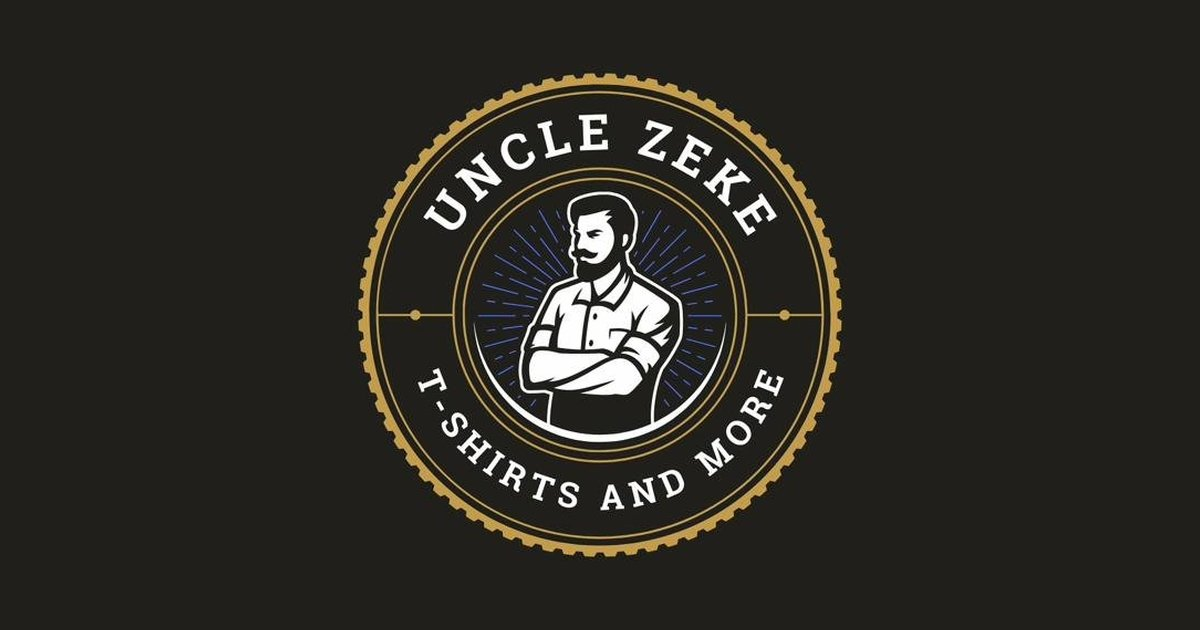
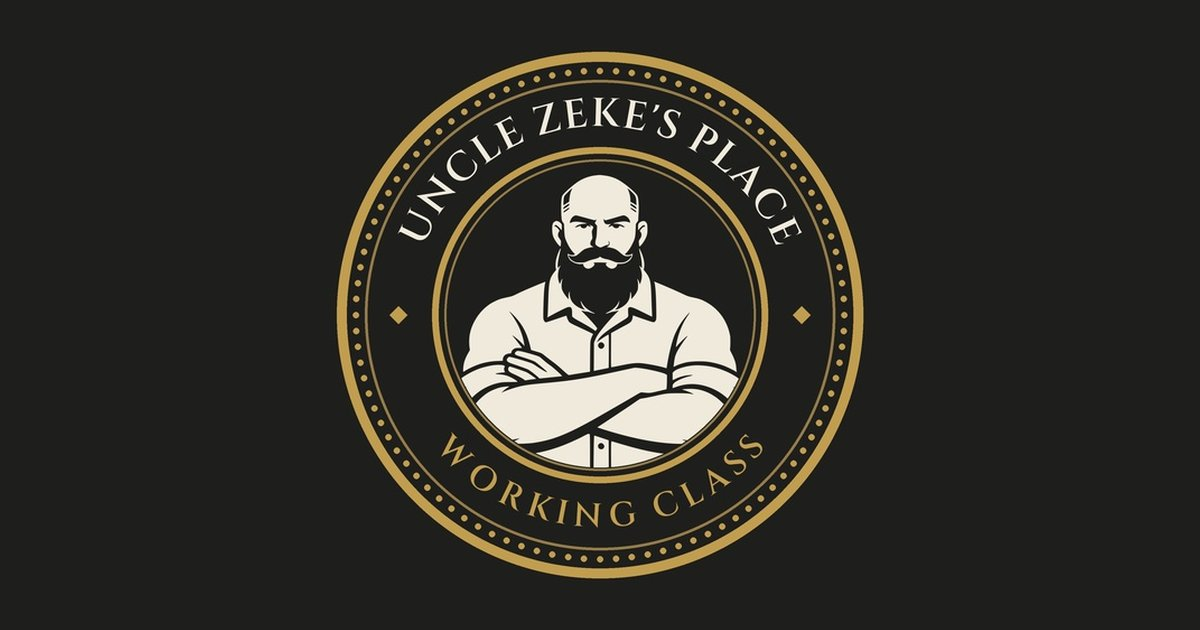
Use newest covers and brand mark, feature Workers Unite
Workers Unite V15 and Cozy Seasons v4 covers, new Working Class
medallion for logo, favicon and share image. Workers Unite joins the
Floor Man's Guide as Contract Season Reading. Adds Walls and Bars and
Bill Haywood's Book to the top of Owasco Valley Classics.

Claude-Session: https://claude.ai/code/session_01JEDT83JivgS4E9M3ZH9URb

Changed region(s): [[0.2775, 0.0603, 0.74, 0.9349]]

diff --git a/books.html b/books.html
@@ -28,10 +28,10 @@
 </header>
 <main><div class="wrap">
   <section class="section"><div class="section-head"><div class="eyebrow">Puzzles and History</div><h2>Uncle Zeke</h2><p>Plain-language union know-how and word search books built from real labor and local history.</p></div>
-    <div class="grid"><a class="item" href="https://www.amazon.com/stores/Uncle-Zeke/author/B0GSNHSGZC" target="_blank" rel="noopener" data-link="store"><img src="img/web/uz_floorman.jpg" alt="The Floor Man&#x27;s Guide to Contract Season cover" loading="lazy" width="500"><div class="item-body"><div class="item-title">The Floor Man&#x27;s Guide to Contract Season</div><div class="item-meta">Uncle Zeke</div></div></a><a class="item" href="https://www.amazon.com/stores/Uncle-Zeke/author/B0GSNHSGZC" target="_blank" rel="noopener" data-link="store"><img src="img/web/workers_unite.jpg" alt="Workers Unite! Word Search cover" loading="lazy" width="500"><div class="item-body"><div class="item-title">Workers Unite! Word Search</div><div class="item-meta">Uncle Zeke</div></div></a><a class="item" href="https://www.amazon.com/stores/Uncle-Zeke/author/B0GSNHSGZC" target="_blank" rel="noopener" data-link="store"><img src="img/web/trailblazers.jpg" alt="Trailblazers! Word Search cover" loading="lazy" width="500"><div class="item-body"><div class="item-title">Trailblazers! Word Search</div><div class="item-meta">Uncle Zeke</div></div></a></div>
+    <div class="grid"><a class="item" href="https://www.amazon.com/stores/Uncle-Zeke/author/B0GSNHSGZC" target="_blank" rel="noopener" data-link="store"><img src="img/web/uz_floorman.jpg" alt="The Floor Man&#x27;s Guide to Contract Season cover" loading="lazy" width="500"><div class="item-body"><div class="item-title">The Floor Man&#x27;s Guide to Contract Season</div><div class="item-meta">Uncle Zeke</div></div></a><a class="item" href="https://www.amazon.com/stores/Uncle-Zeke/author/B0GSNHSGZC" target="_blank" rel="noopener" data-link="store"><img src="img/web/workers_unite.jpg" alt="Workers Unite! Word Search Puzzles cover" loading="lazy" width="500"><div class="item-body"><div class="item-title">Workers Unite! Word Search Puzzles</div><div class="item-meta">Uncle Zeke</div></div></a><a class="item" href="https://www.amazon.com/stores/Uncle-Zeke/author/B0GSNHSGZC" target="_blank" rel="noopener" data-link="store"><img src="img/web/trailblazers.jpg" alt="Trailblazers! Word Search cover" loading="lazy" width="500"><div class="item-body"><div class="item-title">Trailblazers! Word Search</div><div class="item-meta">Uncle Zeke</div></div></a></div>
     <div class="cta"><a class="btn" href="https://www.amazon.com/stores/Uncle-Zeke/author/B0GSNHSGZC" target="_blank" rel="noopener">Uncle Zeke on Amazon</a></div></section>
   <section class="section"><div class="section-head"><div class="eyebrow">Annotated Classics</div><h2>Owasco Valley Classics</h2><p>Public domain works worth keeping, newly typeset with an introduction and a note on the text. Labor history, Finger Lakes authors, and the classics.</p></div>
-    <div class="grid"><a class="item" href="https://www.amazon.com/s?k=Owasco+Valley+Classics" target="_blank" rel="noopener" data-link="store"><img src="img/web/ovc_debs.jpg" alt="Debs: His Life, Writings and Speeches cover" loading="lazy" width="500"><div class="item-body"><div class="item-title">Debs: His Life, Writings and Speeches</div><div class="item-meta">Eugene V. Debs</div></div></a><a class="item" href="https://www.amazon.com/s?k=Owasco+Valley+Classics" target="_blank" rel="noopener" data-link="store"><img src="img/web/ovc_sabotage.jpg" alt="Simple Sabotage Field Manual cover" loading="lazy" width="500"><div class="item-body"><div class="item-title">Simple Sabotage Field Manual</div><div class="item-meta">Office of Strategic Services</div></div></a><a class="item" href="https://www.amazon.com/s?k=Owasco+Valley+Classics" target="_blank" rel="noopener" data-link="store"><img src="img/web/ovc_tess.jpg" alt="Tess of the Storm Country cover" loading="lazy" width="500"><div class="item-body"><div class="item-title">Tess of the Storm Country</div><div class="item-meta">Grace Miller White</div></div></a><a class="item" href="https://www.amazon.com/s?k=Owasco+Valley+Classics" target="_blank" rel="noopener" data-link="store"><img src="img/web/ovc_valley.jpg" alt="From the Valley of the Missing cover" loading="lazy" width="500"><div class="item-body"><div class="item-title">From the Valley of the Missing</div><div class="item-meta">Grace Miller White</div></div></a><a class="item" href="https://www.amazon.com/s?k=Owasco+Valley+Classics" target="_blank" rel="noopener" data-link="store"><img src="img/web/ovc_secret.jpg" alt="The Secret of the Storm Country cover" loading="lazy" width="500"><div class="item-body"><div class="item-title">The Secret of the Storm Country</div><div class="item-meta">Grace Miller White</div></div></a><a class="item" href="https://www.amazon.com/s?k=Owasco+Valley+Classics" target="_blank" rel="noopener" data-link="store"><img src="img/web/ovc_rose.jpg" alt="Rose O&#x27; Paradise cover" loading="lazy" width="500"><div class="item-body"><div class="item-title">Rose O&#x27; Paradise</div><div class="item-meta">Grace Miller White</div></div></a><a class="item" href="https://www.amazon.com/s?k=Owasco+Valley+Classics" target="_blank" rel="noopener" data-link="store"><img src="img/web/ovc_yellow.jpg" alt="The Yellow Wallpaper cover" loading="lazy" width="500"><div class="item-body"><div class="item-title">The Yellow Wallpaper</div><div class="item-meta">Charlotte Perkins Gilman</div></div></a><a class="item" href="https://www.amazon.com/s?k=Owasco+Valley+Classics" target="_blank" rel="noopener" data-link="store"><img src="img/web/ovc_dorian.jpg" alt="The Picture of Dorian Gray cover" loading="lazy" width="500"><div class="item-body"><div class="item-title">The Picture of Dorian Gray</div><div class="item-meta">Oscar Wilde</div></div></a><a class="item" href="https://www.amazon.com/s?k=Owasco+Valley+Classics" target="_blank" rel="noopener" data-link="store"><img src="img/web/ovc_enchiridion.jpg" alt="The Enchiridion cover" loading="lazy" width="500"><div class="item-body"><div class="item-title">The Enchiridion</div><div class="item-meta">Epictetus</div></div></a><a class="item" href="https://www.amazon.com/s?k=Owasco+Valley+Classics" target="_blank" rel="noopener" data-link="store"><img src="img/web/ovc_shortness.jpg" alt="On the Shortness of Life cover" loading="lazy" width="500"><div class="item-body"><div class="item-title">On the Shortness of Life</div><div class="item-meta">Seneca</div></div></a></div>
+    <div class="grid"><a class="item" href="https://www.amazon.com/s?k=Owasco+Valley+Classics" target="_blank" rel="noopener" data-link="store"><img src="img/web/ovc_walls.jpg" alt="Walls and Bars cover" loading="lazy" width="500"><div class="item-body"><div class="item-title">Walls and Bars</div><div class="item-meta">Eugene V. Debs</div></div></a><a class="item" href="https://www.amazon.com/s?k=Owasco+Valley+Classics" target="_blank" rel="noopener" data-link="store"><img src="img/web/ovc_haywood.jpg" alt="Bill Haywood&#x27;s Book cover" loading="lazy" width="500"><div class="item-body"><div class="item-title">Bill Haywood&#x27;s Book</div><div class="item-meta">William D. Haywood</div></div></a><a class="item" href="https://www.amazon.com/s?k=Owasco+Valley+Classics" target="_blank" rel="noopener" data-link="store"><img src="img/web/ovc_debs.jpg" alt="Debs: His Life, Writings and Speeches cover" loading="lazy" width="500"><div class="item-body"><div class="item-title">Debs: His Life, Writings and Speeches</div><div class="item-meta">Eugene V. Debs</div></div></a><a class="item" href="https://www.amazon.com/s?k=Owasco+Valley+Classics" target="_blank" rel="noopener" data-link="store"><img src="img/web/ovc_sabotage.jpg" alt="Simple Sabotage Field Manual cover" loading="lazy" width="500"><div class="item-body"><div class="item-title">Simple Sabotage Field Manual</div><div class="item-meta">Office of Strategic Services</div></div></a><a class="item" href="https://www.amazon.com/s?k=Owasco+Valley+Classics" target="_blank" rel="noopener" data-link="store"><img src="img/web/ovc_tess.jpg" alt="Tess of the Storm Country cover" loading="lazy" width="500"><div class="item-body"><div class="item-title">Tess of the Storm Country</div><div class="item-meta">Grace Miller White</div></div></a><a class="item" href="https://www.amazon.com/s?k=Owasco+Valley+Classics" target="_blank" rel="noopener" data-link="store"><img src="img/web/ovc_valley.jpg" alt="From the Valley of the Missing cover" loading="lazy" width="500"><div class="item-body"><div class="item-title">From the Valley of the Missing</div><div class="item-meta">Grace Miller White</div></div></a><a class="item" href="https://www.amazon.com/s?k=Owasco+Valley+Classics" target="_blank" rel="noopener" data-link="store"><img src="img/web/ovc_secret.jpg" alt="The Secret of the Storm Country cover" loading="lazy" width="500"><div class="item-body"><div class="item-title">The Secret of the Storm Country</div><div class="item-meta">Grace Miller White</div></div></a><a class="item" href="https://www.amazon.com/s?k=Owasco+Valley+Classics" target="_blank" rel="noopener" data-link="store"><img src="img/web/ovc_rose.jpg" alt="Rose O&#x27; Paradise cover" loading="lazy" width="500"><div class="item-body"><div class="item-title">Rose O&#x27; Paradise</div><div class="item-meta">Grace Miller White</div></div></a><a class="item" href="https://www.amazon.com/s?k=Owasco+Valley+Classics" target="_blank" rel="noopener" data-link="store"><img src="img/web/ovc_yellow.jpg" alt="The Yellow Wallpaper cover" loading="lazy" width="500"><div class="item-body"><div class="item-title">The Yellow Wallpaper</div><div class="item-meta">Charlotte Perkins Gilman</div></div></a><a class="item" href="https://www.amazon.com/s?k=Owasco+Valley+Classics" target="_blank" rel="noopener" data-link="store"><img src="img/web/ovc_dorian.jpg" alt="The Picture of Dorian Gray cover" loading="lazy" width="500"><div class="item-body"><div class="item-title">The Picture of Dorian Gray</div><div class="item-meta">Oscar Wilde</div></div></a><a class="item" href="https://www.amazon.com/s?k=Owasco+Valley+Classics" target="_blank" rel="noopener" data-link="store"><img src="img/web/ovc_enchiridion.jpg" alt="The Enchiridion cover" loading="lazy" width="500"><div class="item-body"><div class="item-title">The Enchiridion</div><div class="item-meta">Epictetus</div></div></a><a class="item" href="https://www.amazon.com/s?k=Owasco+Valley+Classics" target="_blank" rel="noopener" data-link="store"><img src="img/web/ovc_shortness.jpg" alt="On the Shortness of Life cover" loading="lazy" width="500"><div class="item-body"><div class="item-title">On the Shortness of Life</div><div class="item-meta">Seneca</div></div></a></div>
     <div class="cta"><a class="btn" href="https://www.amazon.com/s?k=Owasco+Valley+Classics" target="_blank" rel="noopener">Owasco Valley Classics on Amazon</a></div></section>
   <section class="section"><div class="section-head"><div class="eyebrow">Large Print Puzzles</div><h2>Hazel Fireside</h2><p>Relaxing large print word searches for adults and seniors.</p></div>
     <div class="grid"><a class="item" href="https://www.amazon.com/s?k=Hazel+Fireside" target="_blank" rel="noopener" data-link="store"><img src="img/web/cozy_seasons.jpg" alt="Cozy Seasons Large Print Word Search cover" loading="lazy" width="500"><div class="item-body"><div class="item-title">Cozy Seasons Large Print Word Search</div><div class="item-meta">Hazel Fireside</div></div></a><a class="item" href="https://www.amazon.com/s?k=Hazel+Fireside" target="_blank" rel="noopener" data-link="store"><img src="img/web/paddy.jpg" alt="St. Patrick&#x27;s Day Word Search cover" loading="lazy" width="500"><div class="item-body"><div class="item-title">St. Patrick&#x27;s Day Word Search</div><div class="item-meta">Hazel Fireside</div></div></a></div>

diff --git a/shirts.html b/shirts.html
@@ -30,7 +30,7 @@
     </div>
     <div class="grid"><a class="item" href="https://www.teepublic.com/user/unclezeke" target="_blank" rel="noopener" data-link="store"><img src="img/web/red_red_until_signed.jpg" alt="Red Until It&#x27;s Signed shirt design" loading="lazy" width="700" height="700"><div class="item-body"><div class="item-title">Red Until It&#x27;s Signed</div><div class="item-meta">Back print</div></div></a><a class="item" href="https://www.teepublic.com/user/unclezeke" target="_blank" rel="noopener" data-link="store"><img src="img/web/red_no_contract_no_peace.jpg" alt="No Contract, No Peace shirt design" loading="lazy" width="700" height="700"><div class="item-body"><div class="item-title">No Contract, No Peace</div><div class="item-meta">Front and back print</div></div></a><a class="item" href="https://www.teepublic.com/user/unclezeke" target="_blank" rel="noopener" data-link="store"><img src="img/web/red_record_profits.jpg" alt="Record Profits. Empty Promises. shirt design" loading="lazy" width="700" height="700"><div class="item-body"><div class="item-title">Record Profits. Empty Promises.</div><div class="item-meta">Back print</div></div></a><a class="item" href="https://www.teepublic.com/user/unclezeke" target="_blank" rel="noopener" data-link="store"><img src="img/web/red_union_steward.jpg" alt="Union Steward, Ask Me Anything shirt design" loading="lazy" width="700" height="700"><div class="item-body"><div class="item-title">Union Steward, Ask Me Anything</div><div class="item-meta">Back print</div></div></a><a class="item" href="https://www.teepublic.com/user/unclezeke" target="_blank" rel="noopener" data-link="store"><img src="img/web/red_union_kid.jpg" alt="Union Kid shirt design" loading="lazy" width="700" height="700"><div class="item-body"><div class="item-title">Union Kid</div><div class="item-meta">Front and back, youth sizes too</div></div></a></div>
     <div class="cta"><a class="btn white" href="https://www.teepublic.com/user/unclezeke" target="_blank" rel="noopener">Go to the Store</a></div>
-    <a class="feature" href="https://www.amazon.com/stores/Uncle-Zeke/author/B0GSNHSGZC" target="_blank" rel="noopener"><img src="img/web/uz_floorman.jpg" alt="The Floor Man's Guide to Contract Season cover" loading="lazy" width="500" height="750"><div><div class="eyebrow">Contract Season Reading</div><div class="feature-title">The Floor Man's Guide to Contract Season</div><p>What it says, what it means, and what to do about it. Plain language, real situations, no law degree required.</p><span class="door-go">Get it on Amazon &rsaquo;</span></div></a>
+    <div class="reading"><div class="eyebrow reading-head">Contract Season Reading</div><div class="reading-row"><a class="feature" href="https://www.amazon.com/stores/Uncle-Zeke/author/B0GSNHSGZC" target="_blank" rel="noopener"><img src="img/web/uz_floorman.jpg" alt="The Floor Man&#x27;s Guide to Contract Season cover" loading="lazy" width="500" height="750"><div><div class="feature-title">The Floor Man&#x27;s Guide to Contract Season</div><p>What it says, what it means, and what to do about it. Plain language, real situations, no law degree required.</p><span class="door-go">Get it on Amazon &rsaquo;</span></div></a><a class="feature" href="https://www.amazon.com/stores/Uncle-Zeke/author/B0GSNHSGZC" target="_blank" rel="noopener"><img src="img/web/workers_unite.jpg" alt="Workers Unite! Word Search Puzzles cover" loading="lazy" width="500" height="750"><div><div class="feature-title">Workers Unite! Word Search Puzzles</div><p>120 puzzles celebrating American labor history. Working class puzzles with working class solutions.</p><span class="door-go">Get it on Amazon &rsaquo;</span></div></a></div></div>
   </div>
 </section>
 <main class="section"><div class="wrap">

diff --git a/index.html b/index.html
@@ -38,7 +38,7 @@
     </div>
     <div class="grid"><a class="item" href="https://www.teepublic.com/user/unclezeke" target="_blank" rel="noopener" data-link="store"><img src="img/web/red_red_until_signed.jpg" alt="Red Until It&#x27;s Signed shirt design" loading="lazy" width="700" height="700"><div class="item-body"><div class="item-title">Red Until It&#x27;s Signed</div><div class="item-meta">Back print</div></div></a><a class="item" href="https://www.teepublic.com/user/unclezeke" target="_blank" rel="noopener" data-link="store"><img src="img/web/red_no_contract_no_peace.jpg" alt="No Contract, No Peace shirt design" loading="lazy" width="700" height="700"><div class="item-body"><div class="item-title">No Contract, No Peace</div><div class="item-meta">Front and back print</div></div></a><a class="item" href="https://www.teepublic.com/user/unclezeke" target="_blank" rel="noopener" data-link="store"><img src="img/web/red_record_profits.jpg" alt="Record Profits. Empty Promises. shirt design" loading="lazy" width="700" height="700"><div class="item-body"><div class="item-title">Record Profits. Empty Promises.</div><div class="item-meta">Back print</div></div></a><a class="item" href="https://www.teepublic.com/user/unclezeke" target="_blank" rel="noopener" data-link="store"><img src="img/web/red_union_steward.jpg" alt="Union Steward, Ask Me Anything shirt design" loading="lazy" width="700" height="700"><div class="item-body"><div class="item-title">Union Steward, Ask Me Anything</div><div class="item-meta">Back print</div></div></a><a class="item" href="https://www.teepublic.com/user/unclezeke" target="_blank" rel="noopener" data-link="store"><img src="img/web/red_union_kid.jpg" alt="Union Kid shirt design" loading="lazy" width="700" height="700"><div class="item-body"><div class="item-title">Union Kid</div><div class="item-meta">Front and back, youth sizes too</div></div></a></div>
     <div class="cta"><a class="btn white" href="shirts.html">See All Red Shirts</a></div>
-    <a class="feature" href="books.html"><img src="img/web/uz_floorman.jpg" alt="The Floor Man's Guide to Contract Season cover" loading="lazy" width="500" height="750"><div><div class="eyebrow">Contract Season Reading</div><div class="feature-title">The Floor Man's Guide to Contract Season</div><p>What it says, what it means, and what to do about it. Plain language, real situations, no law degree required.</p><span class="door-go">Get the book &rsaquo;</span></div></a>
+    <div class="reading"><div class="eyebrow reading-head">Contract Season Reading</div><div class="reading-row"><a class="feature" href="books.html"><img src="img/web/uz_floorman.jpg" alt="The Floor Man&#x27;s Guide to Contract Season cover" loading="lazy" width="500" height="750"><div><div class="feature-title">The Floor Man&#x27;s Guide to Contract Season</div><p>What it says, what it means, and what to do about it. Plain language, real situations, no law degree required.</p><span class="door-go">Get the book &rsaquo;</span></div></a><a class="feature" href="books.html"><img src="img/web/workers_unite.jpg" alt="Workers Unite! Word Search Puzzles cover" loading="lazy" width="500" height="750"><div><div class="feature-title">Workers Unite! Word Search Puzzles</div><p>120 puzzles celebrating American labor history. Working class puzzles with working class solutions.</p><span class="door-go">Get the book &rsaquo;</span></div></a></div></div>
   </div>
 </section>
 

diff --git a/style.css b/style.css
@@ -123,3 +123,9 @@ footer{border-top:1px solid var(--rule);text-align:center;padding:2.4rem 16px;ma
 .feature p{font-size:0.95rem;opacity:0.9;line-height:1.5}
 .feature .door-go{color:#fff;display:inline-block}
 @media(max-width:600px){.feature{flex-direction:column;text-align:center}.feature img{width:140px}}
+.reading{margin-top:2.4rem}
+.reading-head{text-align:center;color:#ffd6dc;margin-bottom:1rem}
+.reading-row{display:grid;grid-template-columns:1fr 1fr;gap:1rem;max-width:960px;margin:0 auto}
+.reading .feature{margin:0;max-width:none}
+.reading .feature img{width:110px}
+@media(max-width:760px){.reading-row{grid-template-columns:1fr}}

diff --git a/_build/build.py b/_build/build.py
@@ -61,6 +61,13 @@ RED=[("red_red_until_signed","Red Until It's Signed","Back print"),
      ("red_union_kid","Union Kid","Front and back, youth sizes too")]
 def red_items(): return "".join(item(i,t,m,UZ_TP,alt=f"{t} shirt design",w=700,h=700) for i,t,m in RED)
 
+READING=[("uz_floorman","The Floor Man's Guide to Contract Season","What it says, what it means, and what to do about it. Plain language, real situations, no law degree required."),
+         ("workers_unite","Workers Unite! Word Search Puzzles","120 puzzles celebrating American labor history. Working class puzzles with working class solutions.")]
+def reading(href,go,ext=False):
+    tgt=' target="_blank" rel="noopener"' if ext else ''
+    cards="".join(f'''<a class="feature" href="{href}"{tgt}><img src="img/web/{i}.jpg" alt="{html.escape(t)} cover" loading="lazy" width="500" height="750"><div><div class="feature-title">{html.escape(t)}</div><p>{html.escape(d)}</p><span class="door-go">{go} &rsaquo;</span></div></a>''' for i,t,d in READING)
+    return f'<div class="reading"><div class="eyebrow reading-head">Contract Season Reading</div><div class="reading-row">{cards}</div></div>'
+
 # INDEX
 page("index.html","Uncle Zeke's Place | A Voice for the Working Class",
  "Uncle Zeke's Place. Union shirts, patent prints, and books with a working-class voice, out of Moravia, New York.",f'''
@@ -81,7 +88,7 @@ page("index.html","Uncle Zeke's Place | A Voice for the Working Class",
     </div>
     <div class="grid">{red_items()}</div>
     <div class="cta"><a class="btn white" href="shirts.html">See All Red Shirts</a></div>
-    <a class="feature" href="books.html"><img src="img/web/uz_floorman.jpg" alt="The Floor Man's Guide to Contract Season cover" loading="lazy" width="500" height="750"><div><div class="eyebrow">Contract Season Reading</div><div class="feature-title">The Floor Man's Guide to Contract Season</div><p>What it says, what it means, and what to do about it. Plain language, real situations, no law degree required.</p><span class="door-go">Get the book &rsaquo;</span></div></a>
+    {reading("books.html","Get the book")}
   </div>
 </section>
 
@@ -126,7 +133,7 @@ page("shirts.html","Red Shirt Wednesday | Uncle Zeke Shirts",
     </div>
     <div class="grid">{red_items()}</div>
     <div class="cta"><a class="btn white" href="{UZ_TP}" target="_blank" rel="noopener">Go to the Store</a></div>
-    <a class="feature" href="{AMZ_UZ}" target="_blank" rel="noopener"><img src="img/web/uz_floorman.jpg" alt="The Floor Man's Guide to Contract Season cover" loading="lazy" width="500" height="750"><div><div class="eyebrow">Contract Season Reading</div><div class="feature-title">The Floor Man's Guide to Contract Season</div><p>What it says, what it means, and what to do about it. Plain language, real situations, no law degree required.</p><span class="door-go">Get it on Amazon &rsaquo;</span></div></a>
+    {reading(AMZ_UZ,"Get it on Amazon",True)}
   </div>
 </section>
 <main class="section"><div class="wrap">
@@ -171,8 +178,8 @@ page("prints.html","Patent Prints | Uncle Zeke's Place",
 
 # BOOKS
 def books(lst,href): return "".join(item(i,t,a,href,alt=f"{t} cover",w=500) for i,t,a in lst)
-UZB=[("uz_floorman","The Floor Man's Guide to Contract Season","Uncle Zeke"),("workers_unite","Workers Unite! Word Search","Uncle Zeke"),("trailblazers","Trailblazers! Word Search","Uncle Zeke")]
-OVC=[("ovc_debs","Debs: His Life, Writings and Speeches","Eugene V. Debs"),("ovc_sabotage","Simple Sabotage Field Manual","Office of Strategic Services"),
+UZB=[("uz_floorman","The Floor Man's Guide to Contract Season","Uncle Zeke"),("workers_unite","Workers Unite! Word Search Puzzles","Uncle Zeke"),("trailblazers","Trailblazers! Word Search","Uncle Zeke")]
+OVC=[("ovc_walls","Walls and Bars","Eugene V. Debs"),("ovc_haywood","Bill Haywood's Book","William D. Haywood"),("ovc_debs","Debs: His Life, Writings and Speeches","Eugene V. Debs"),("ovc_sabotage","Simple Sabotage Field Manual","Office of Strategic Services"),
      ("ovc_tess","Tess of the Storm Country","Grace Miller White"),("ovc_valley","From the Valley of the Missing","Grace Miller White"),
      ("ovc_secret","The Secret of the Storm Country","Grace Miller White"),("ovc_rose","Rose O' Paradise","Grace Miller White"),
      ("ovc_yellow","The Yellow Wallpaper","Charlotte Perkins Gilman"),("ovc_dorian","The Picture of Dorian Gray","Oscar Wilde"),
